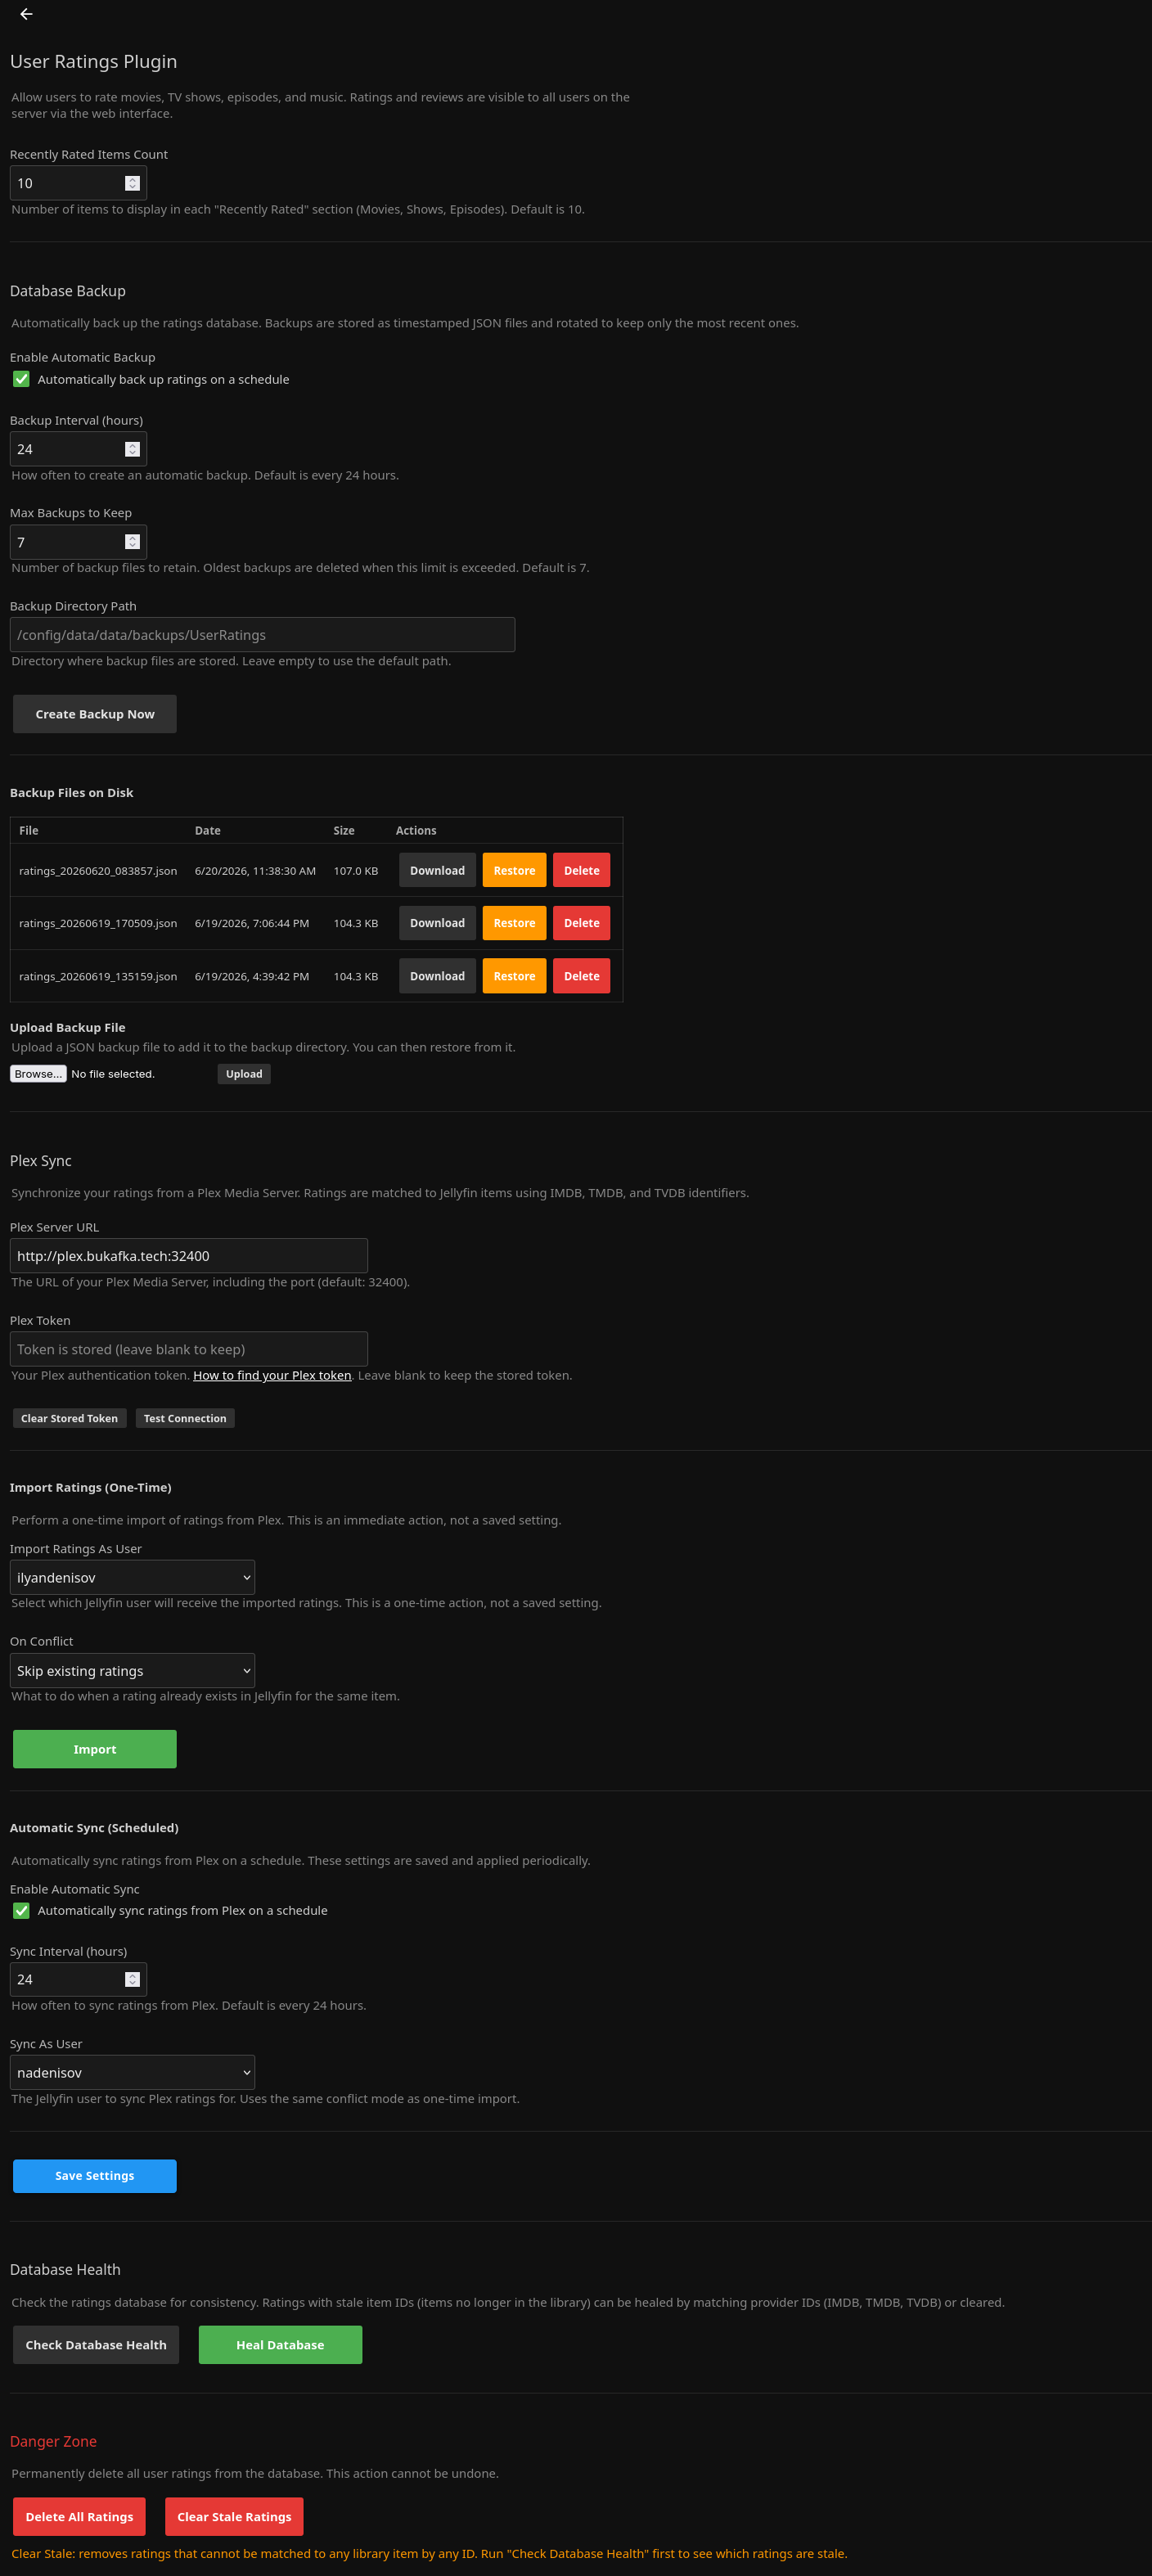
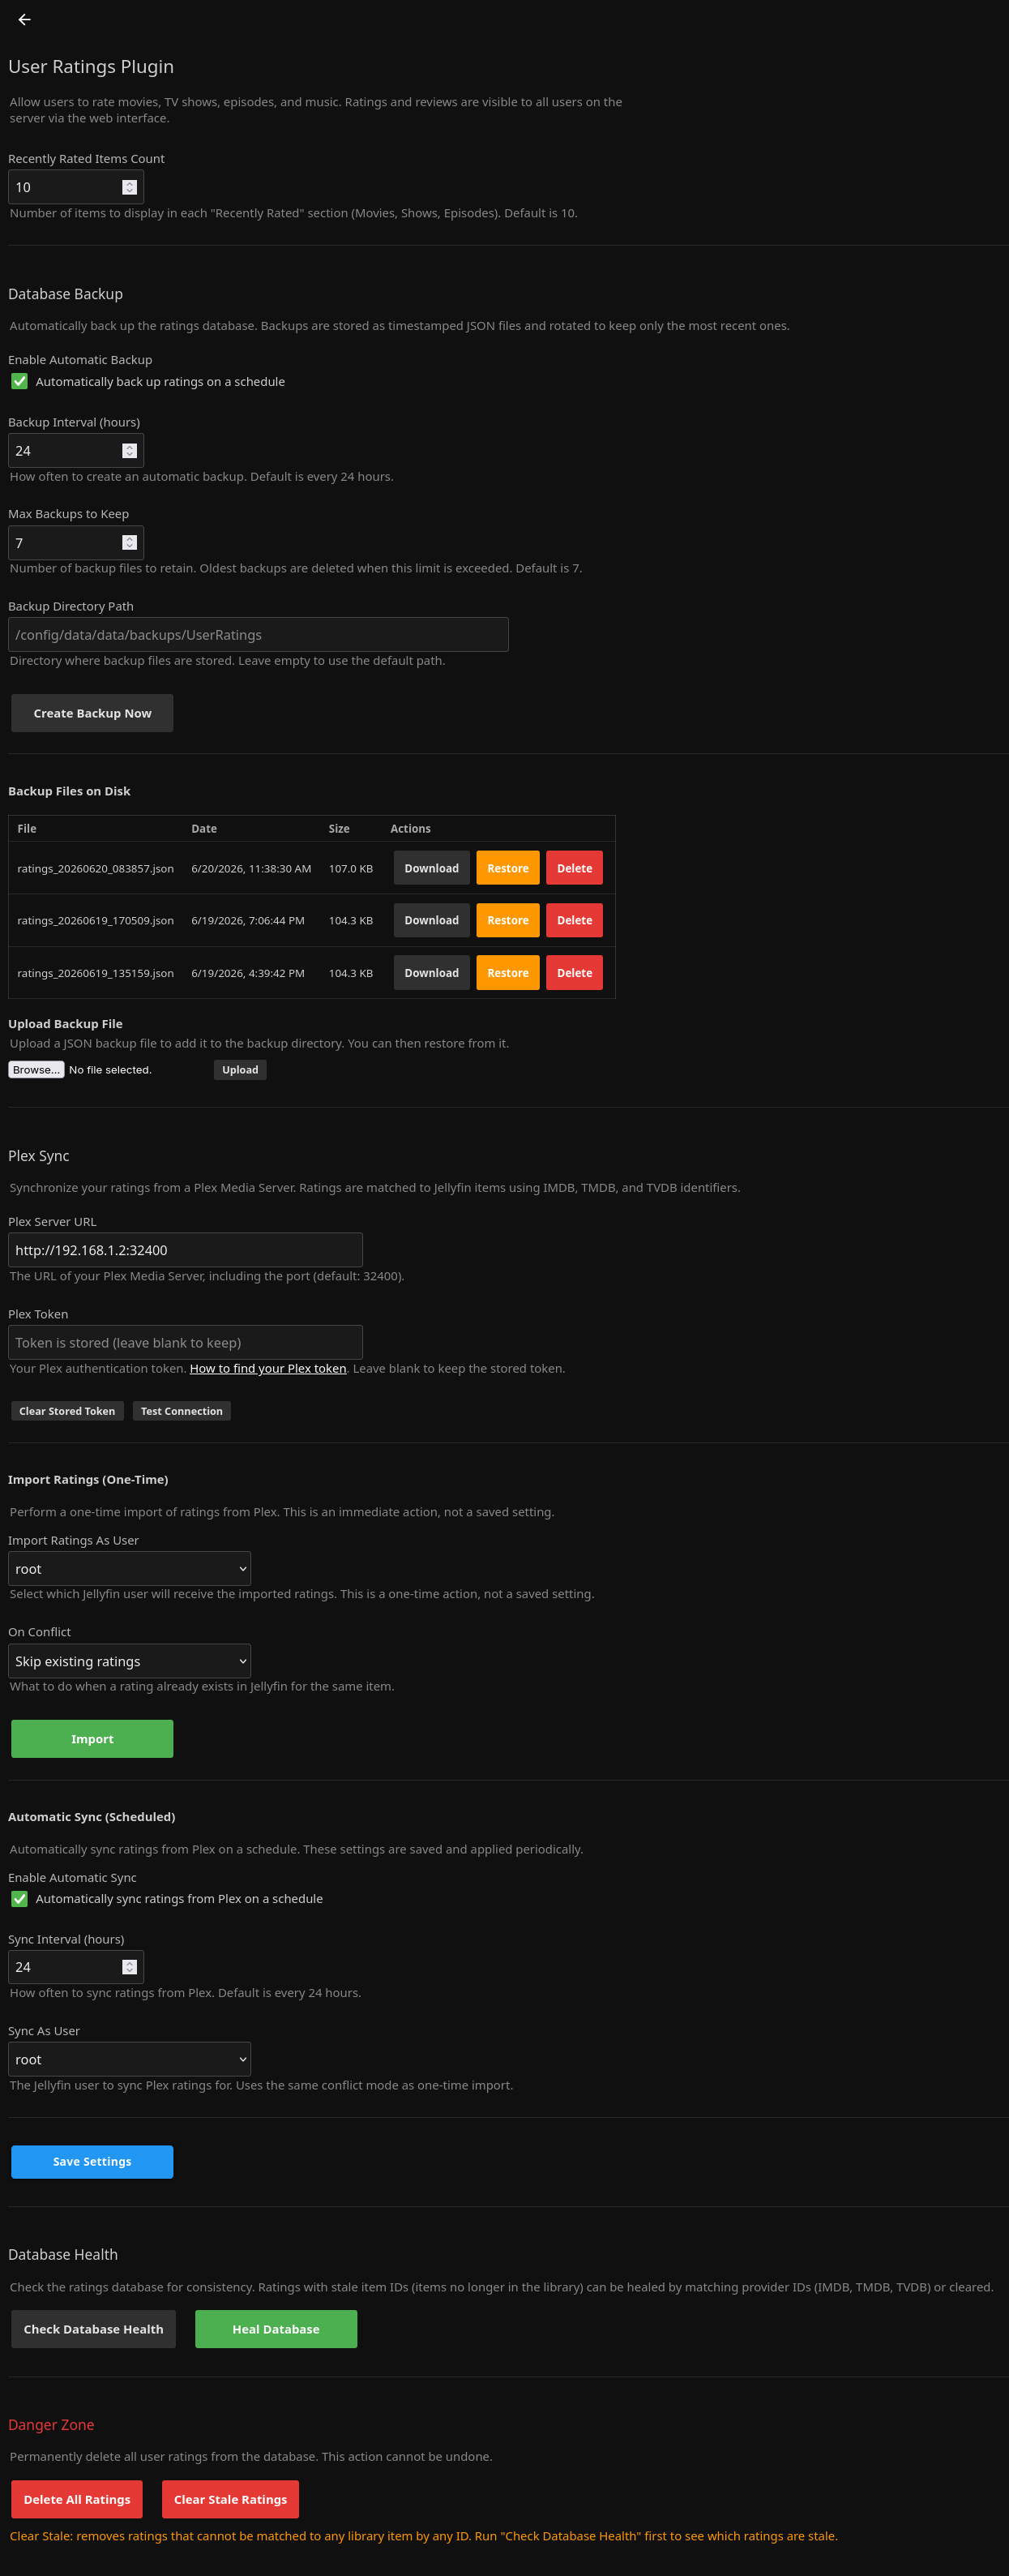
docs: add ElegantFin theme annotation to screenshots

diff --git a/README.md b/README.md
@@ -11,6 +11,8 @@ A social rating system for Jellyfin. Rate movies, TV shows, and episodes, then b
 
 ## Screenshots
 
+> Screenshots taken using the [ElegantFin](https://github.com/lscambo13/ElegantFin) theme. On the default Jellyfin theme, UI elements use Jellyfin's native styling.
+
 ### Rating Widget (collapsed)
 <img src="screenshots/rating_collapsed.png" width="800">
 